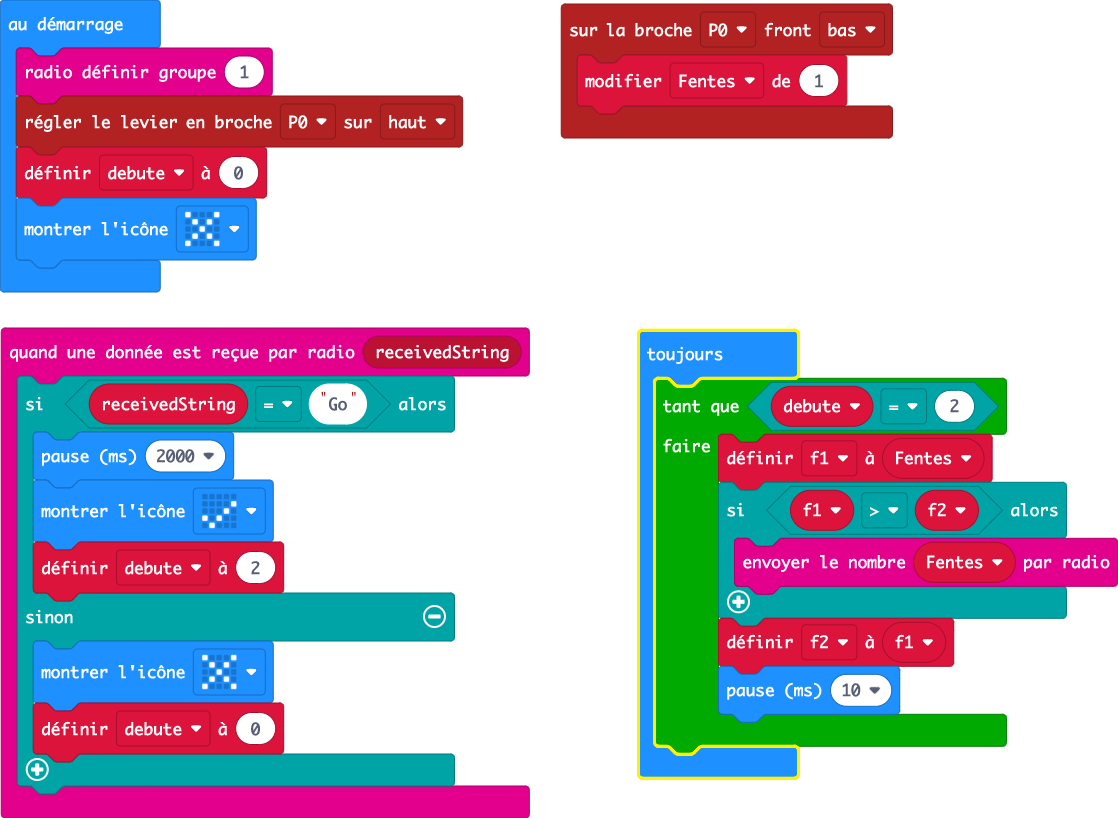
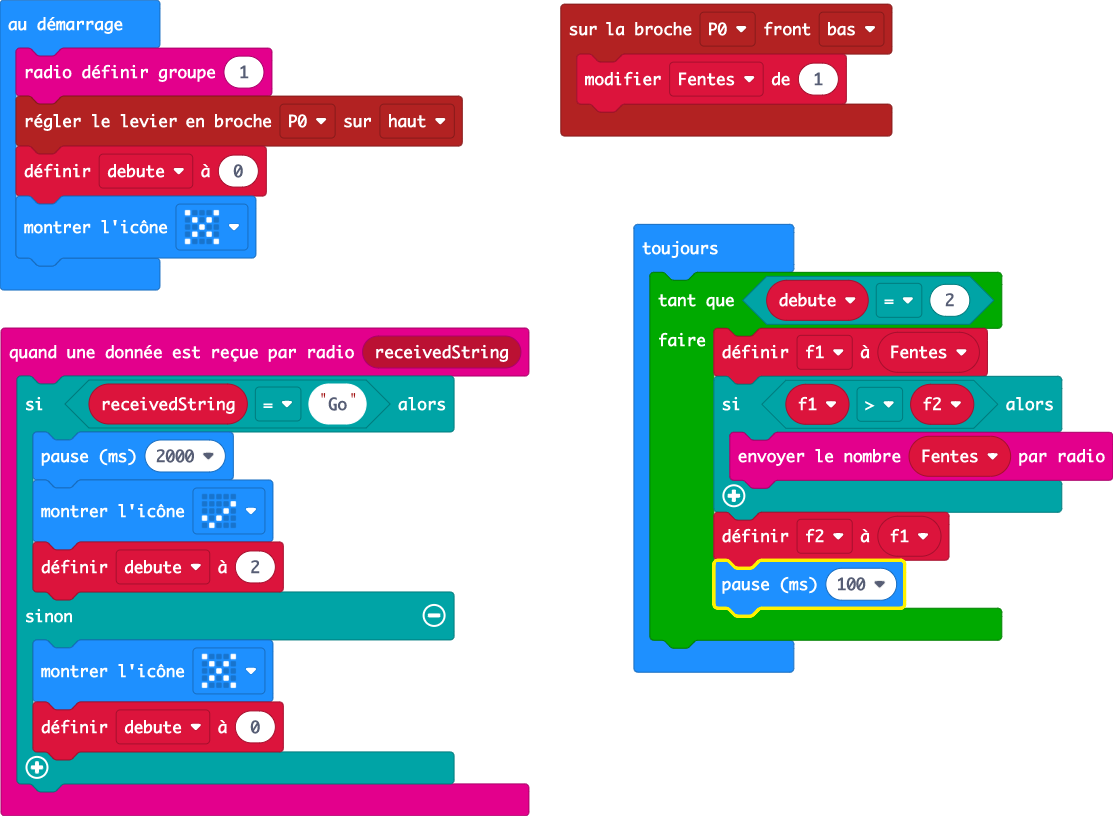
Mise à jour main.blocks, main.ts

diff --git a/main.ts b/main.ts
@@ -26,6 +26,6 @@ basic.forever(function () {
             radio.sendNumber(Fentes)
         }
         f2 = f1
-        basic.pause(10)
+        basic.pause(100)
     }
 })
